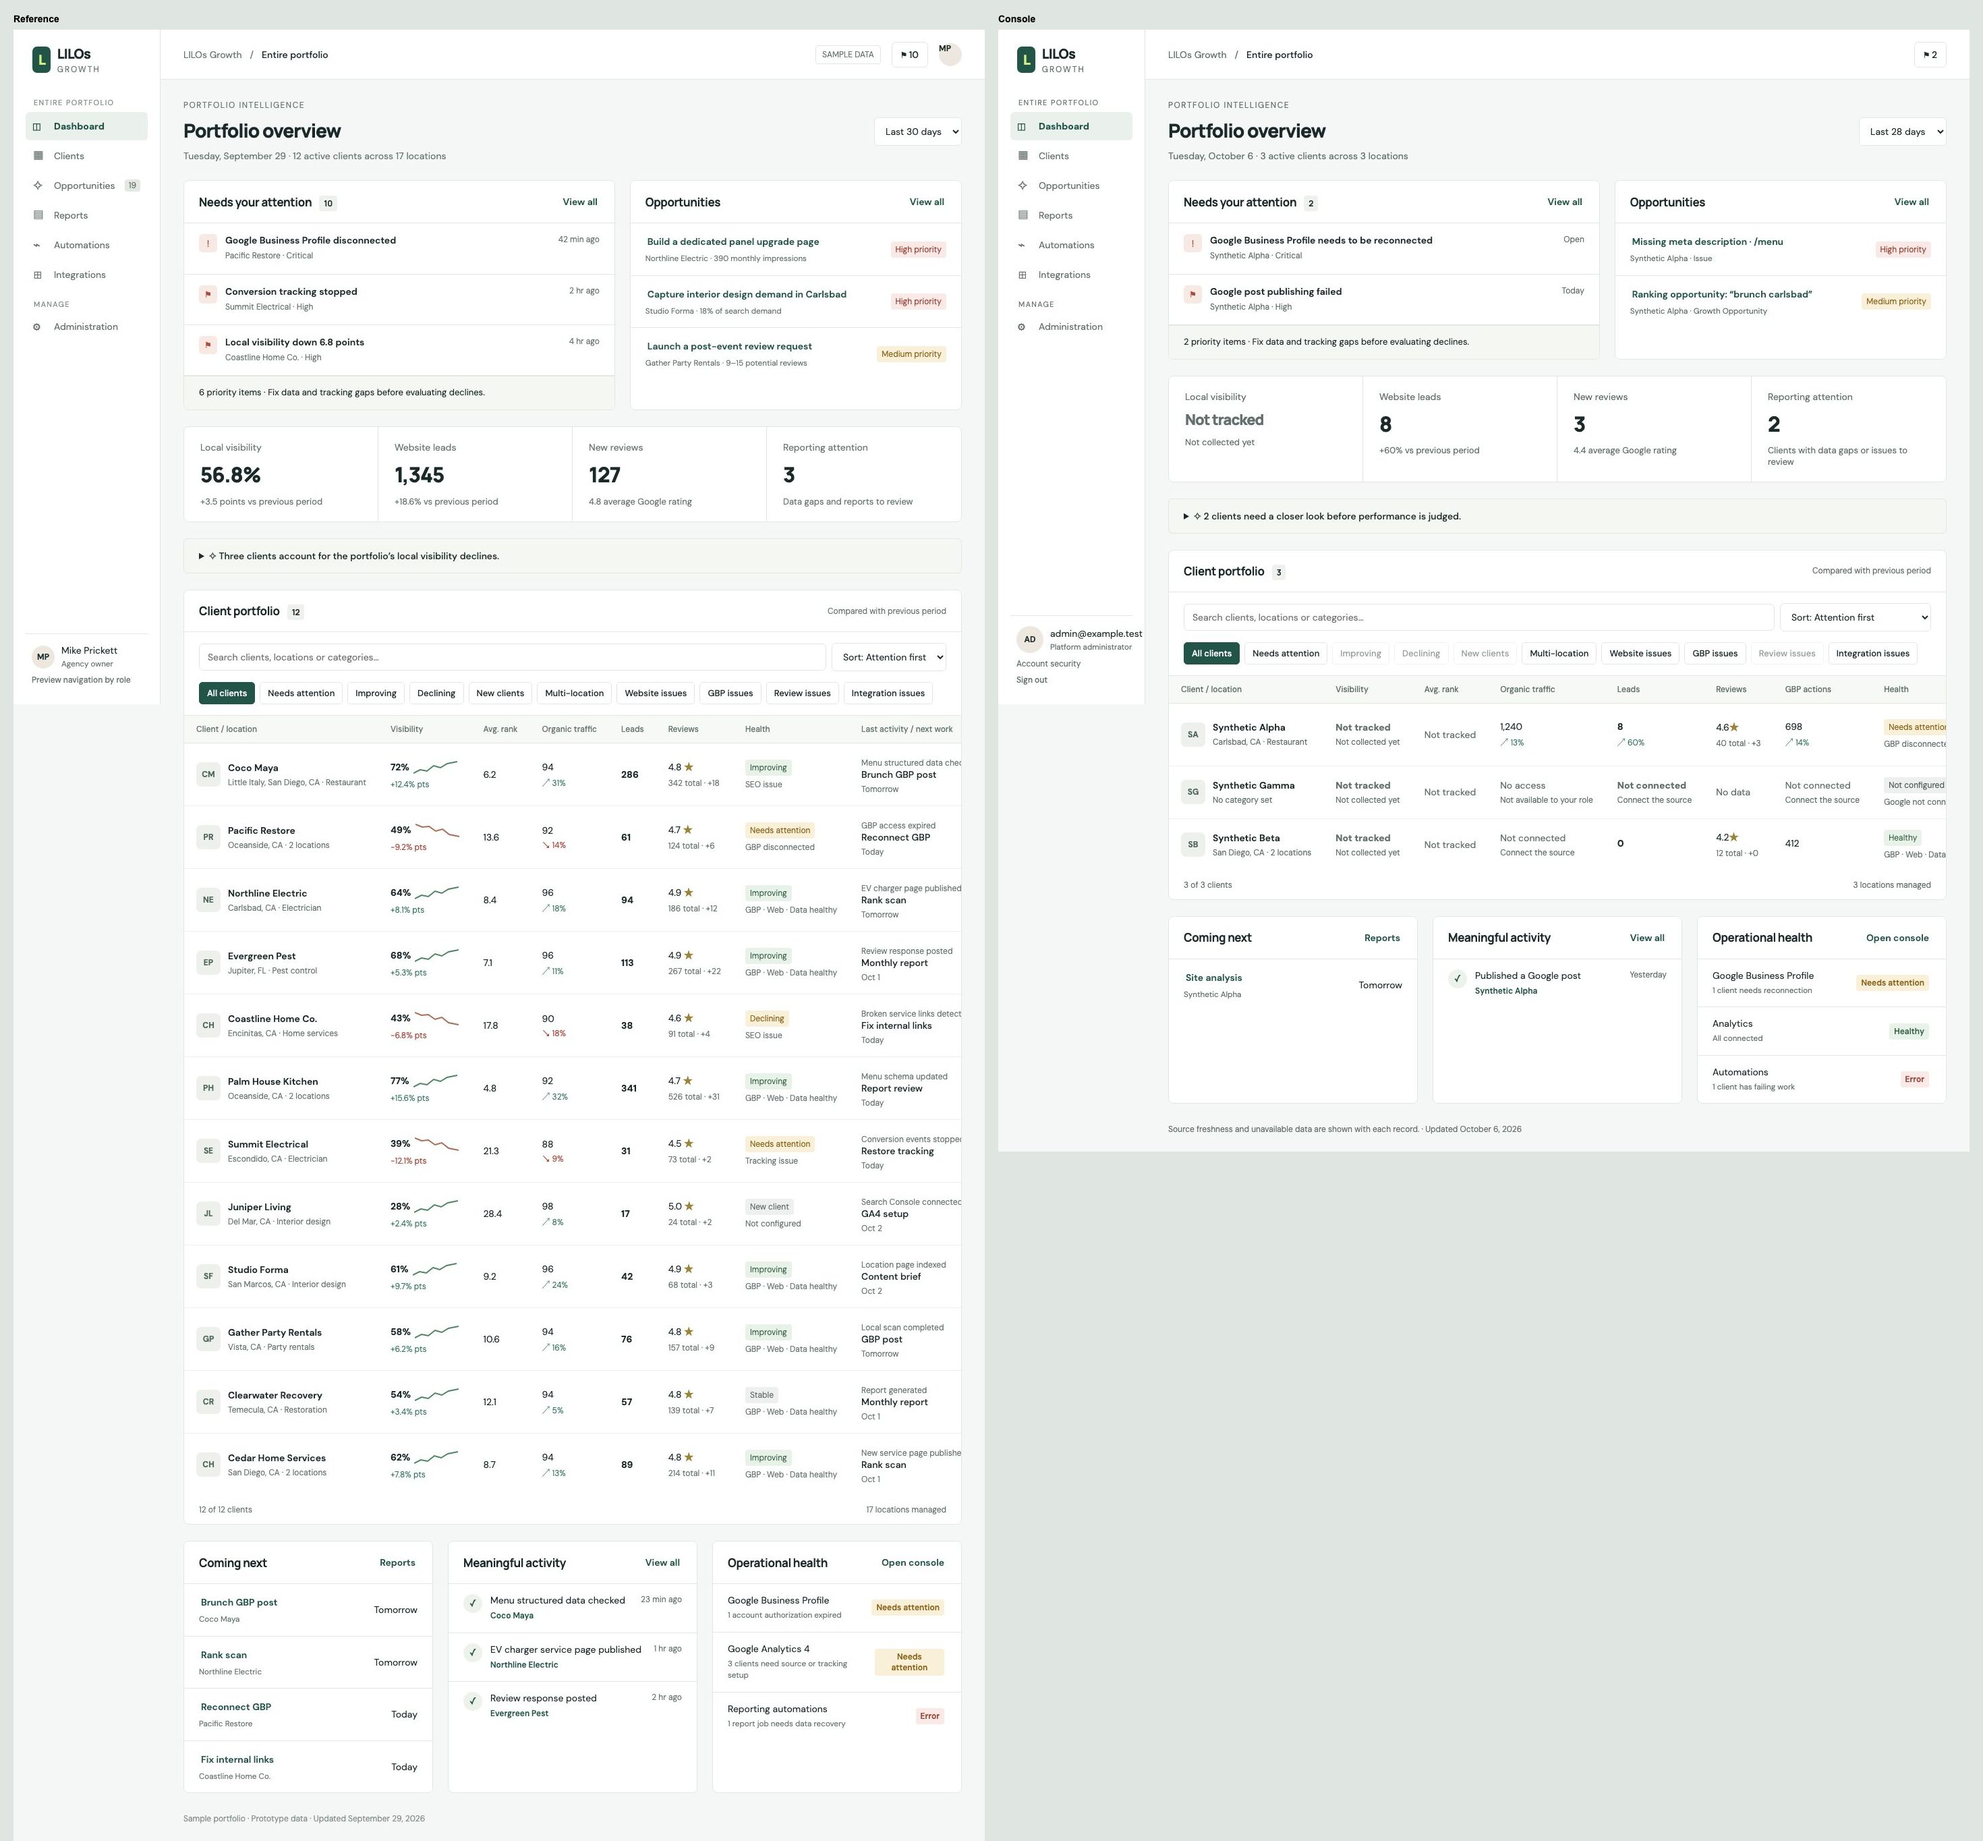
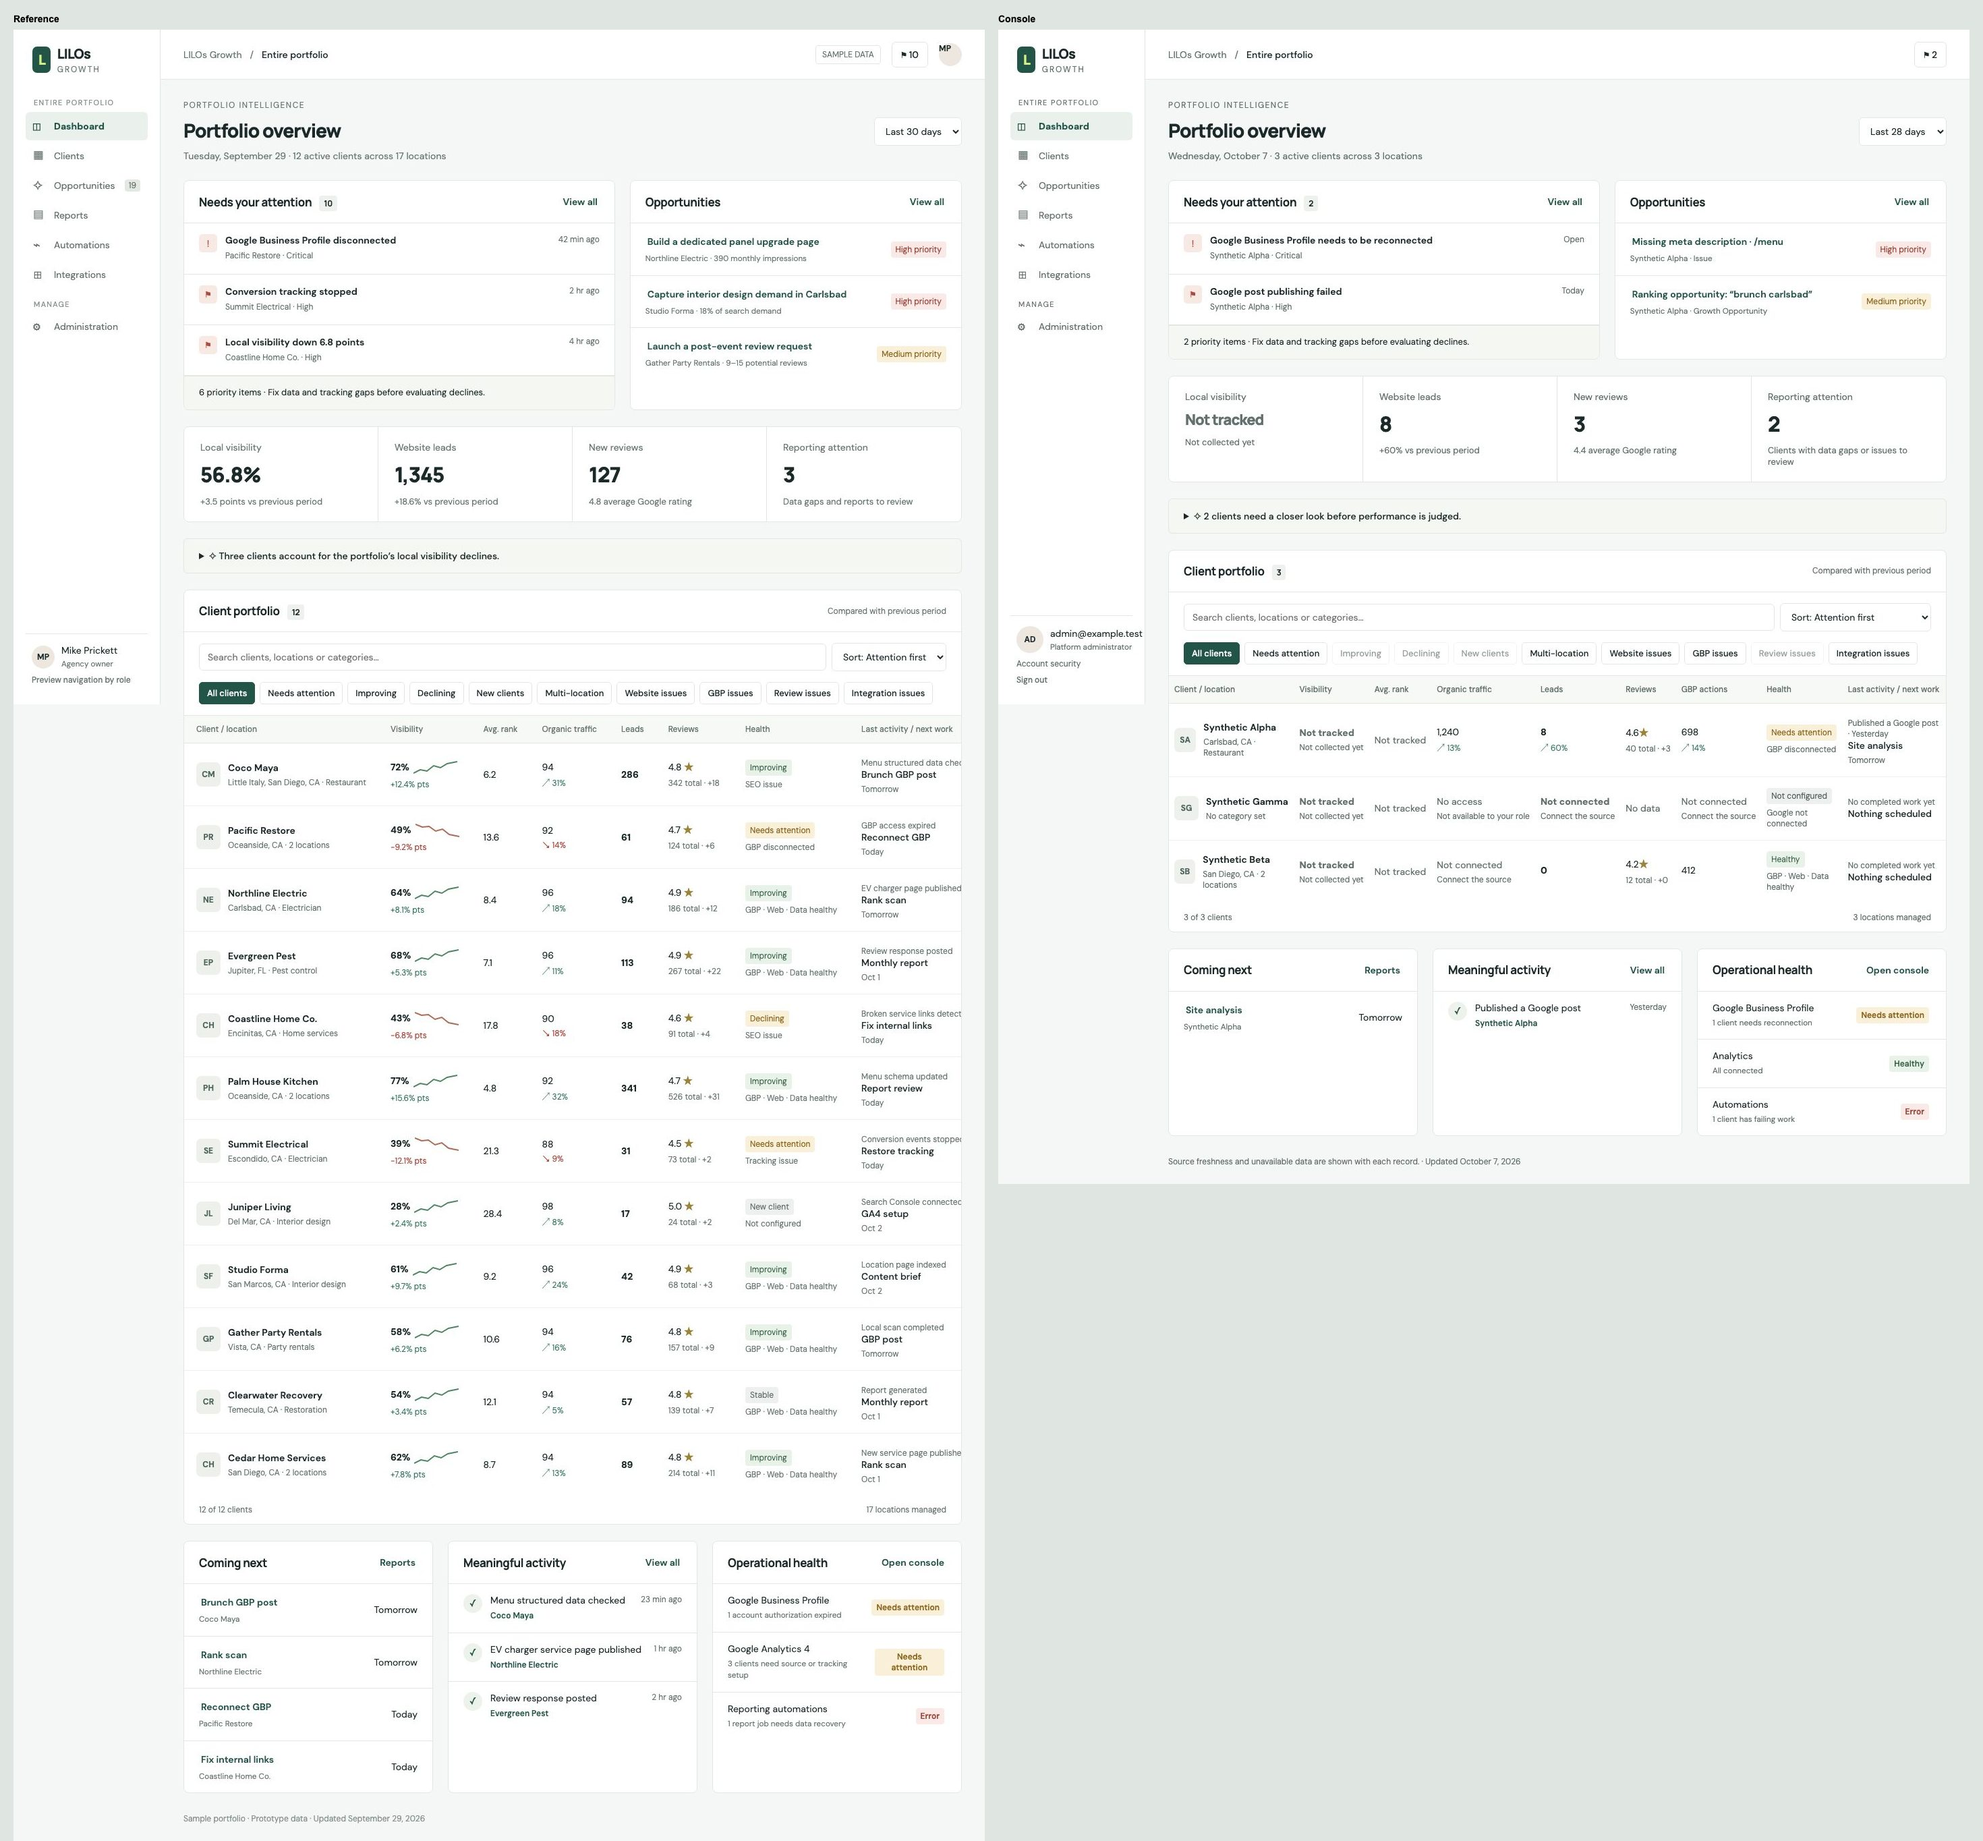
Fit all nine Dashboard table columns at 1440px

diff --git a/apps/console/src/styles/app.css b/apps/console/src/styles/app.css
@@ -463,6 +463,19 @@ td {
   padding: 16px 18px;
   border-bottom: 1px solid #edf0ee;
 }
+/* Nine columns fit the panel at desktop width: tighter cell padding and wrapping notes. */
+@media (min-width: 1200px) {
+  .portfoliotable th,
+  .portfoliotable td {
+    padding-left: 8px;
+    padding-right: 8px;
+  }
+  .portfoliotable td:first-child .sub,
+  .portfoliotable td:nth-child(n + 8) .sub,
+  .portfoliotable td:last-child b {
+    white-space: normal;
+  }
+}
 tbody tr:hover {
   background: #f7faf7;
 }
